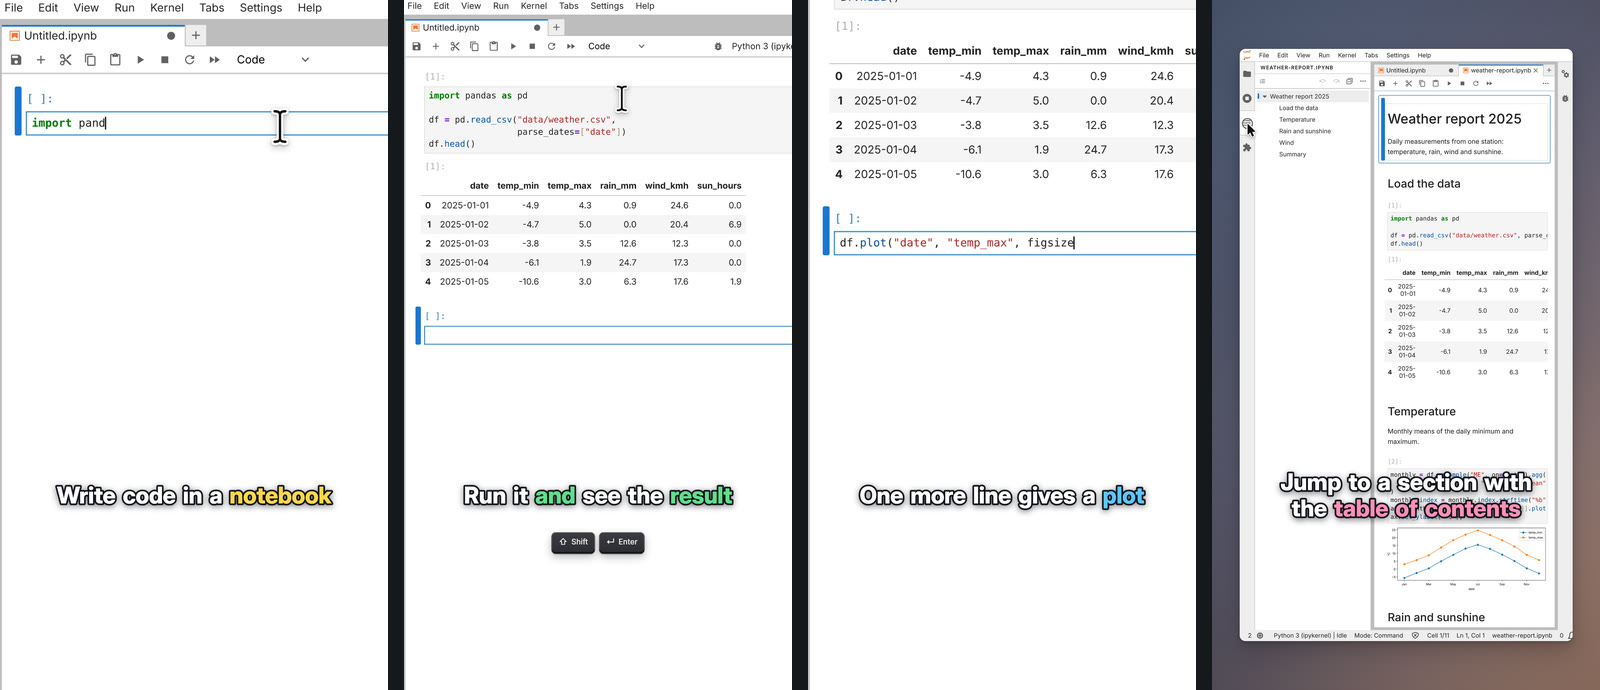
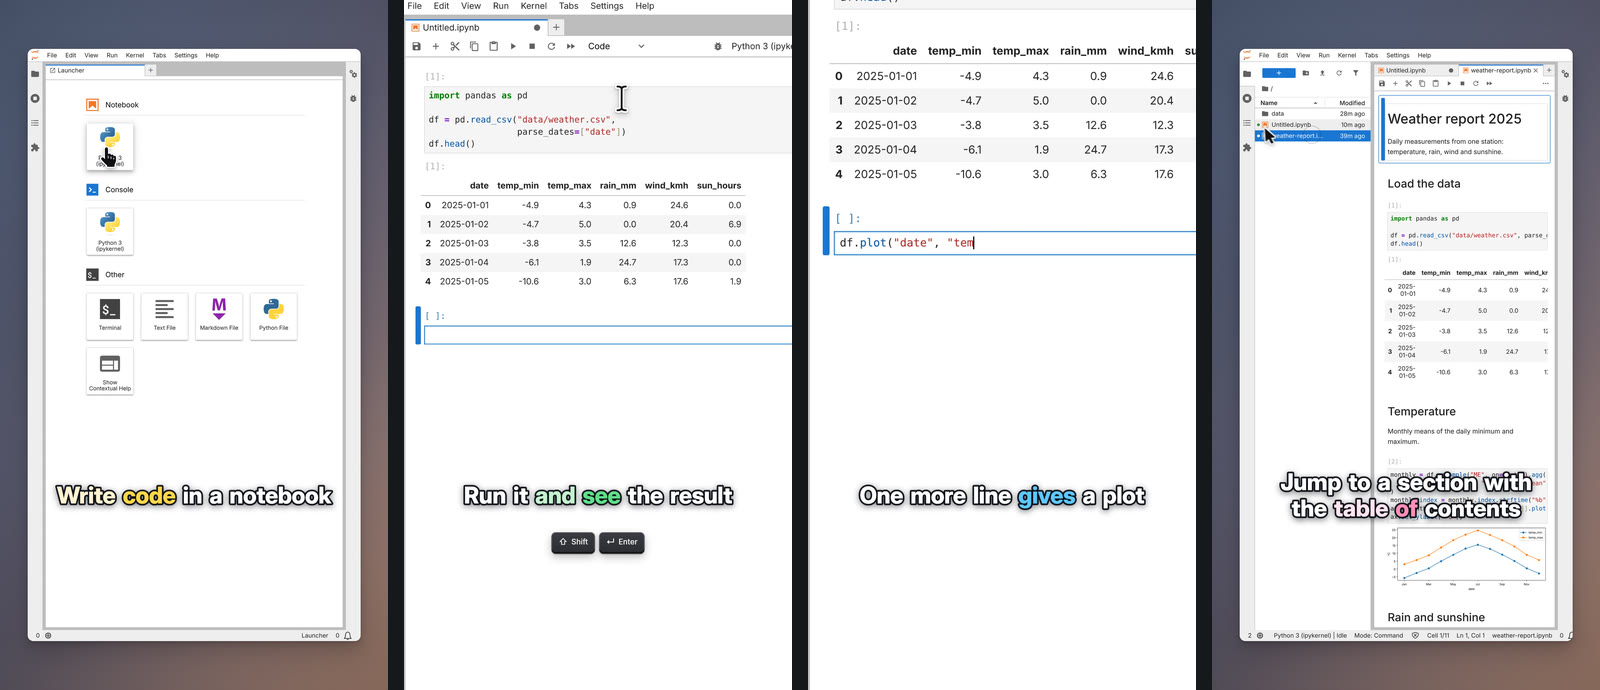
Remove the emphasis from the captions of the vertical example

diff --git a/examples/jupyterlab-vertical.ts b/examples/jupyterlab-vertical.ts
@@ -51,7 +51,7 @@ export default defineScreencast({
       return { x: box.x, y: box.y, width, height: box.height };
     };
 
-    await cast.caption('Write code in a **notebook**');
+    await cast.caption('Write code in a notebook');
     await cast.click(page.locator('.jp-LauncherCard[data-category="Notebook"]').first(), {
       afterClick: 0,
     });
@@ -59,13 +59,13 @@ export default defineScreencast({
     await cast.zoomTo(await code(0, 430), { padding: 12 });
     await cast.type(LOAD, { into: cells.first().locator('.cm-content') });
 
-    await cast.caption('Run it and see the **result**');
+    await cast.caption('Run it and see the result');
     await cast.press('Shift+Enter');
     await cast.cut(() => page.locator('.jp-RenderedHTMLCommon table').waitFor());
     await cast.zoomTo(await code(0, 560), { padding: 12 });
     await cast.wait(1800);
 
-    await cast.caption('One more line gives a **plot**');
+    await cast.caption('One more line gives a plot');
     await cast.zoomTo(await code(1, 430), { padding: 12 });
     await cast.type(PLOT);
     await cast.press('Shift+Enter');
@@ -74,7 +74,7 @@ export default defineScreencast({
     await cast.zoomTo(plot, { padding: 24 });
     await cast.hover(plot, { position: { x: 0.56, y: 0.3 }, hold: 1600 });
 
-    await cast.caption('Jump to a section with the **table of contents**');
+    await cast.caption('Jump to a section with the table of contents');
     await cast.zoomOut();
     await cast.click(sidebar('filebrowser'));
     await cast.dblclick(file('weather-report.ipynb'), { afterClick: 0 });
@@ -88,7 +88,7 @@ export default defineScreencast({
     await cast.click(heading('Weather report 2025'));
     await cast.wait(500);
 
-    await cast.caption('Keep two documents **in view**');
+    await cast.caption('Keep two documents in view');
     await cast.zoomOut();
     await cast.click(sidebar('table-of-contents'));
     await cast.drag(tab('Untitled.ipynb'), '#jp-main-dock-panel', {
@@ -96,7 +96,7 @@ export default defineScreencast({
     });
     await cast.wait(1600);
 
-    await cast.caption('Find every command in the **command palette**');
+    await cast.caption('Find every command in the command palette');
     await cast.press('Control+Shift+C');
     const search = page.locator('#modal-command-palette .lm-CommandPalette-search');
     await cast.moveTo(search);
@@ -115,7 +115,7 @@ export default defineScreencast({
       await page.locator('#jupyterlab-splash').waitFor({ state: 'detached' });
       await page.waitForTimeout(300);
     });
-    await cast.caption('and make it **yours**', { duration: 2600 });
+    await cast.caption('and make it yours', { duration: 2600 });
     await cast.zoomOut({ wait: false });
     await cast.moveTo({ x: 640, y: 905 });
     await cast.wait(2400);
